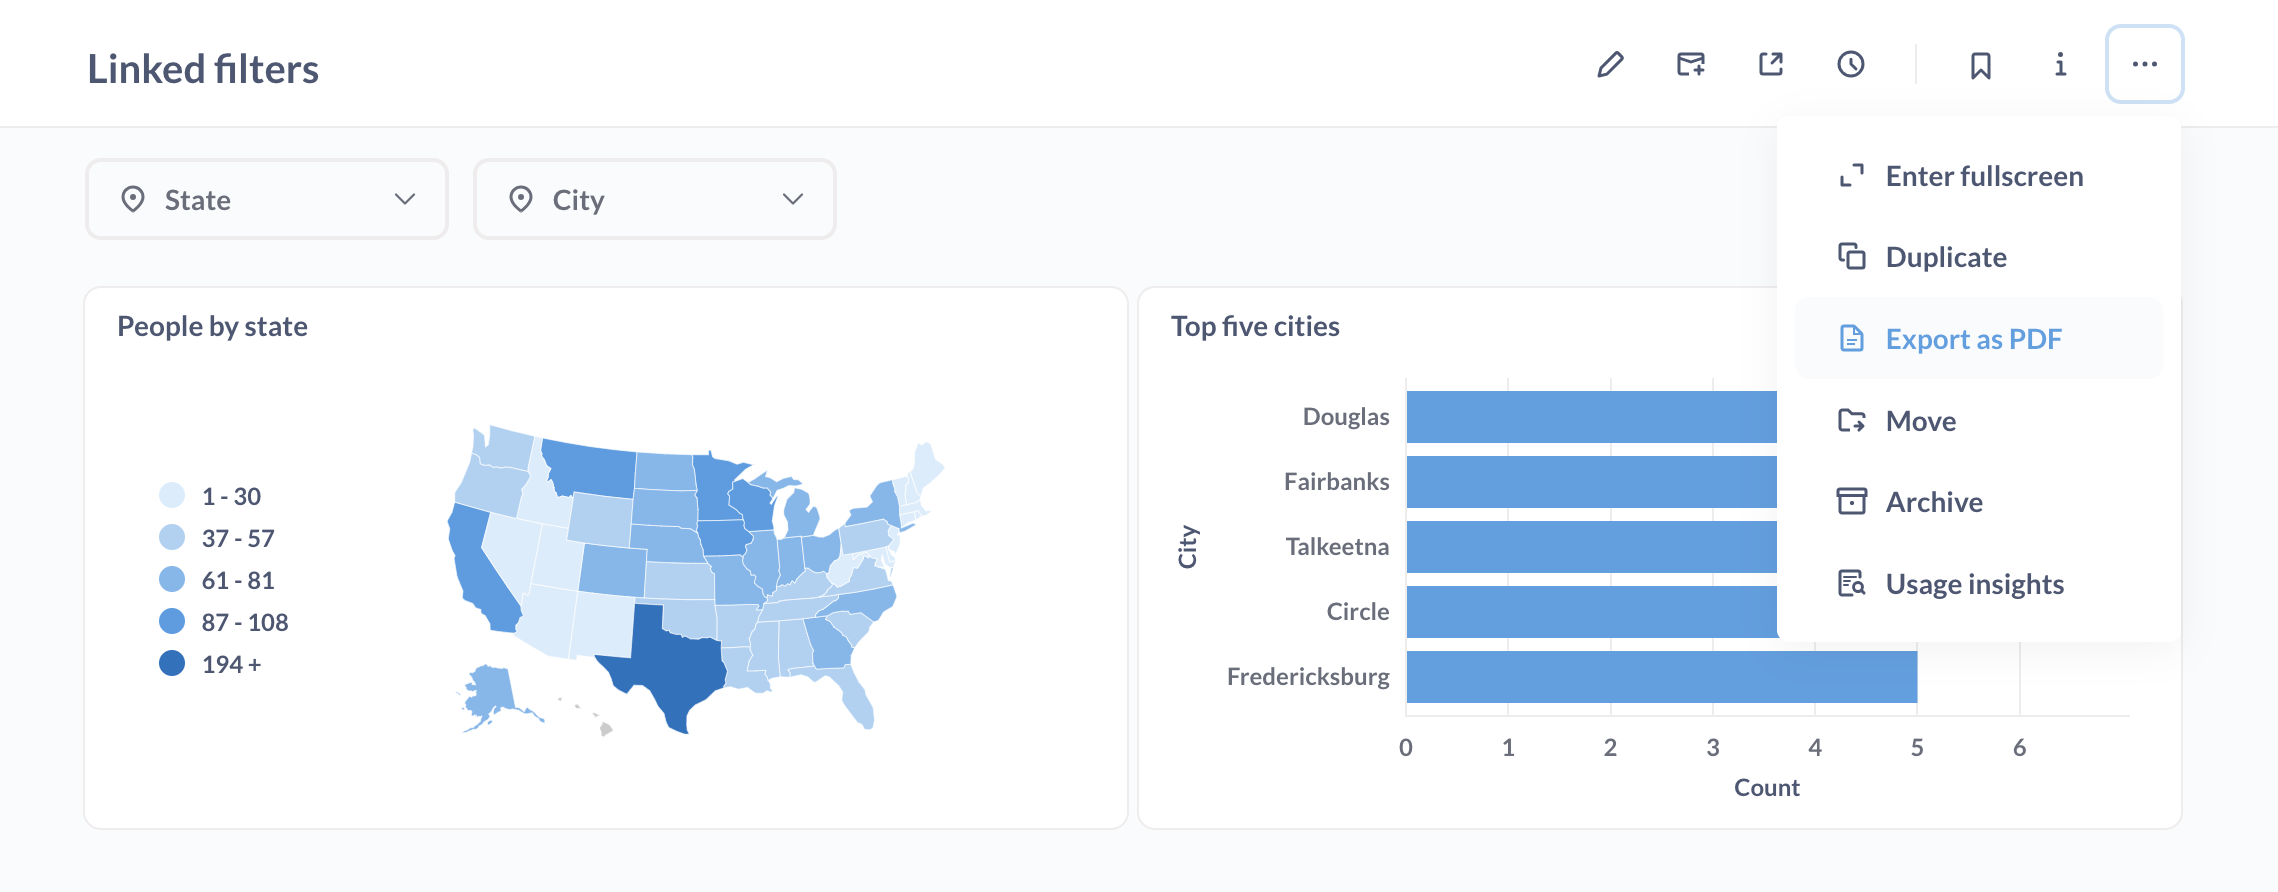
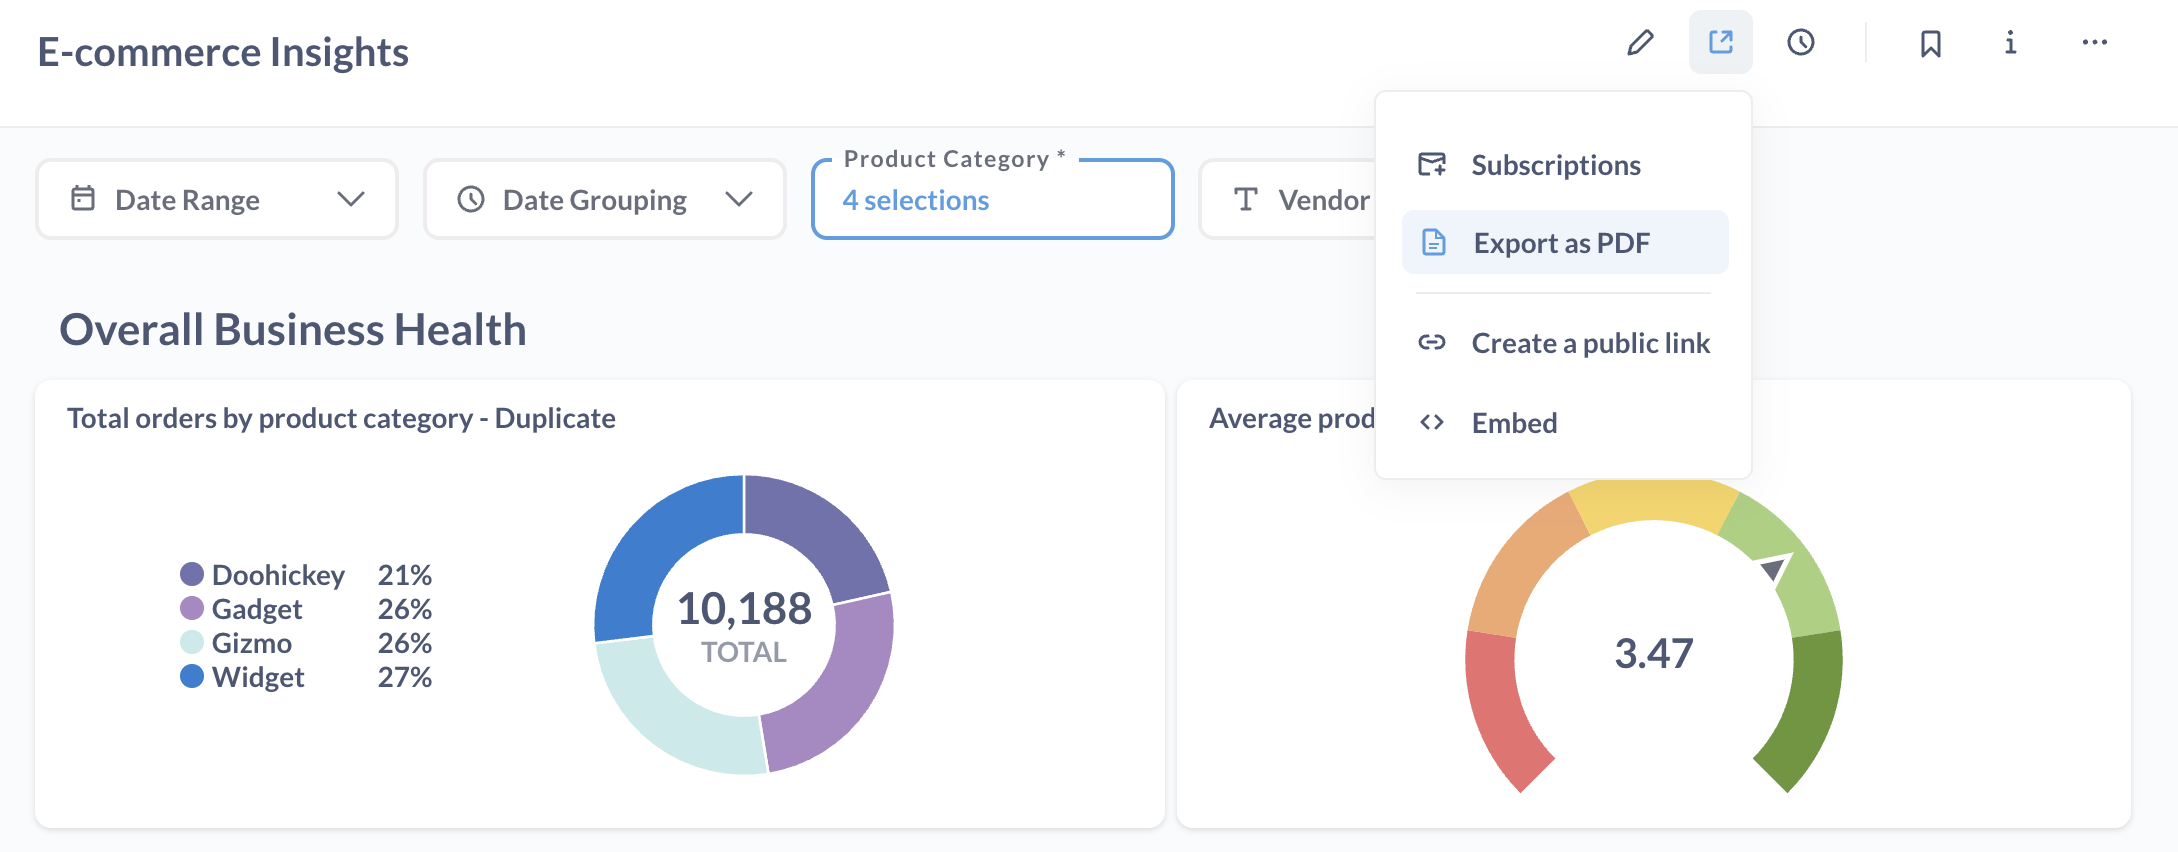
docs: Updating "Export dashboard as PDF" (#51506)
* Updating "Export dashboard as PDF"

* Typo

* updating the screenshot

diff --git a/docs/questions/sharing/exporting-results.md b/docs/questions/sharing/exporting-results.md
@@ -53,7 +53,7 @@ You can export the results of a dashboard and its cards in different ways.
 
 ### Export dashboard as PDF
 
-You can export a dashboard as a PDF. Click on the three dot menu (**...**) and select **Export as PDF**.
+You can export a dashboard as a PDF. Click on the **Sharing** button, then select **Export as PDF**.
 
 ![Exporting a dashboard as a PDF](../images/export-dashboard-as-pdf.png)
 
